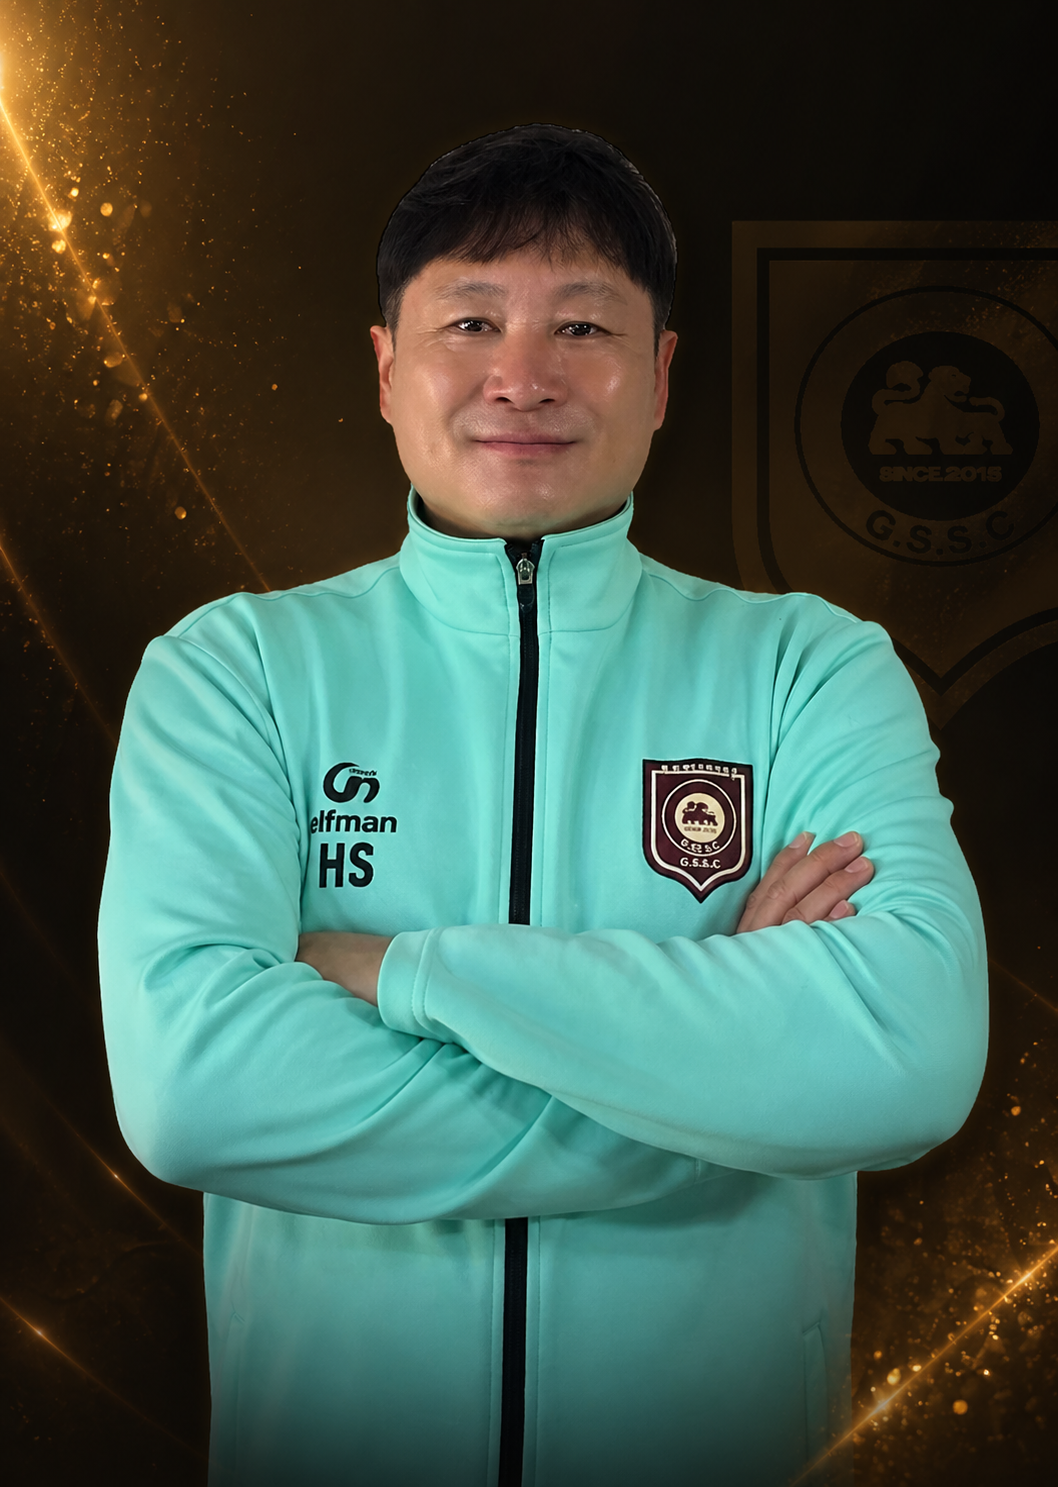
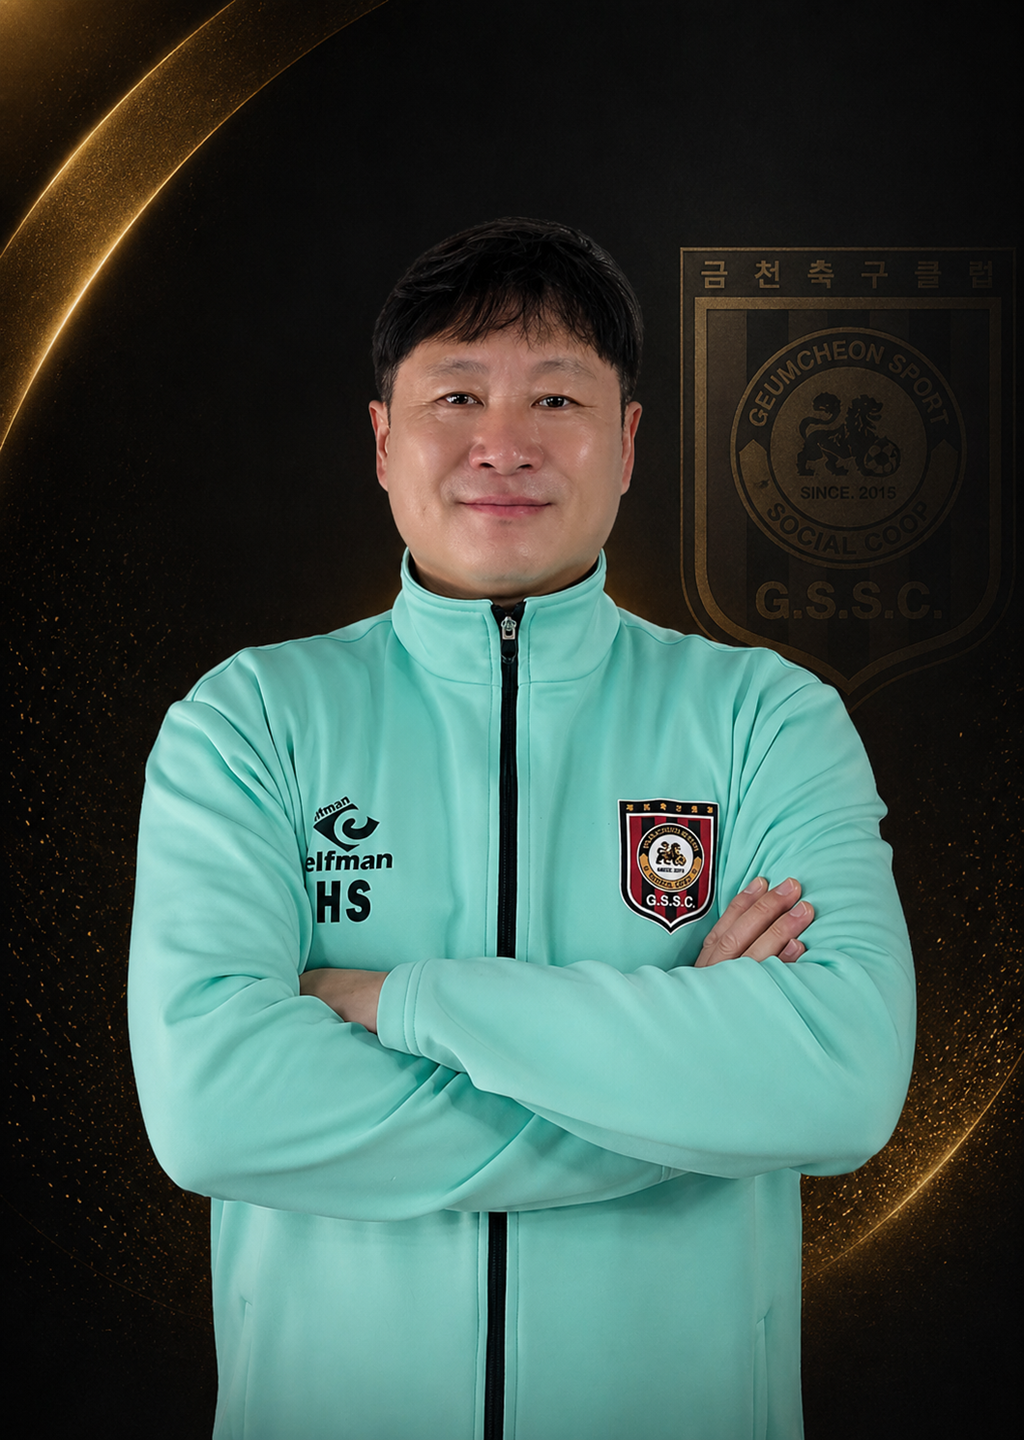
프로필 이미지 교체

diff --git a/src/app/club-introduction/page.tsx b/src/app/club-introduction/page.tsx
@@ -564,7 +564,7 @@ export default function ClubIntroductionPage() {
           <div className="grid gap-4 sm:grid-cols-2 lg:grid-cols-3">
             {t.coaches.map((coach, i) => {
               const photoSrc =
-                i === 0 ? "/staff/coach-cheon-goldpoint-256x360.png" :
+                i === 0 ? "/staff/coach-cheon-goldpoint-1024x1440.png" :
                 i === 1 ? "/staff/coach-hanseok-goldpoint-1024x1440.png" :
                 null;
               return (
